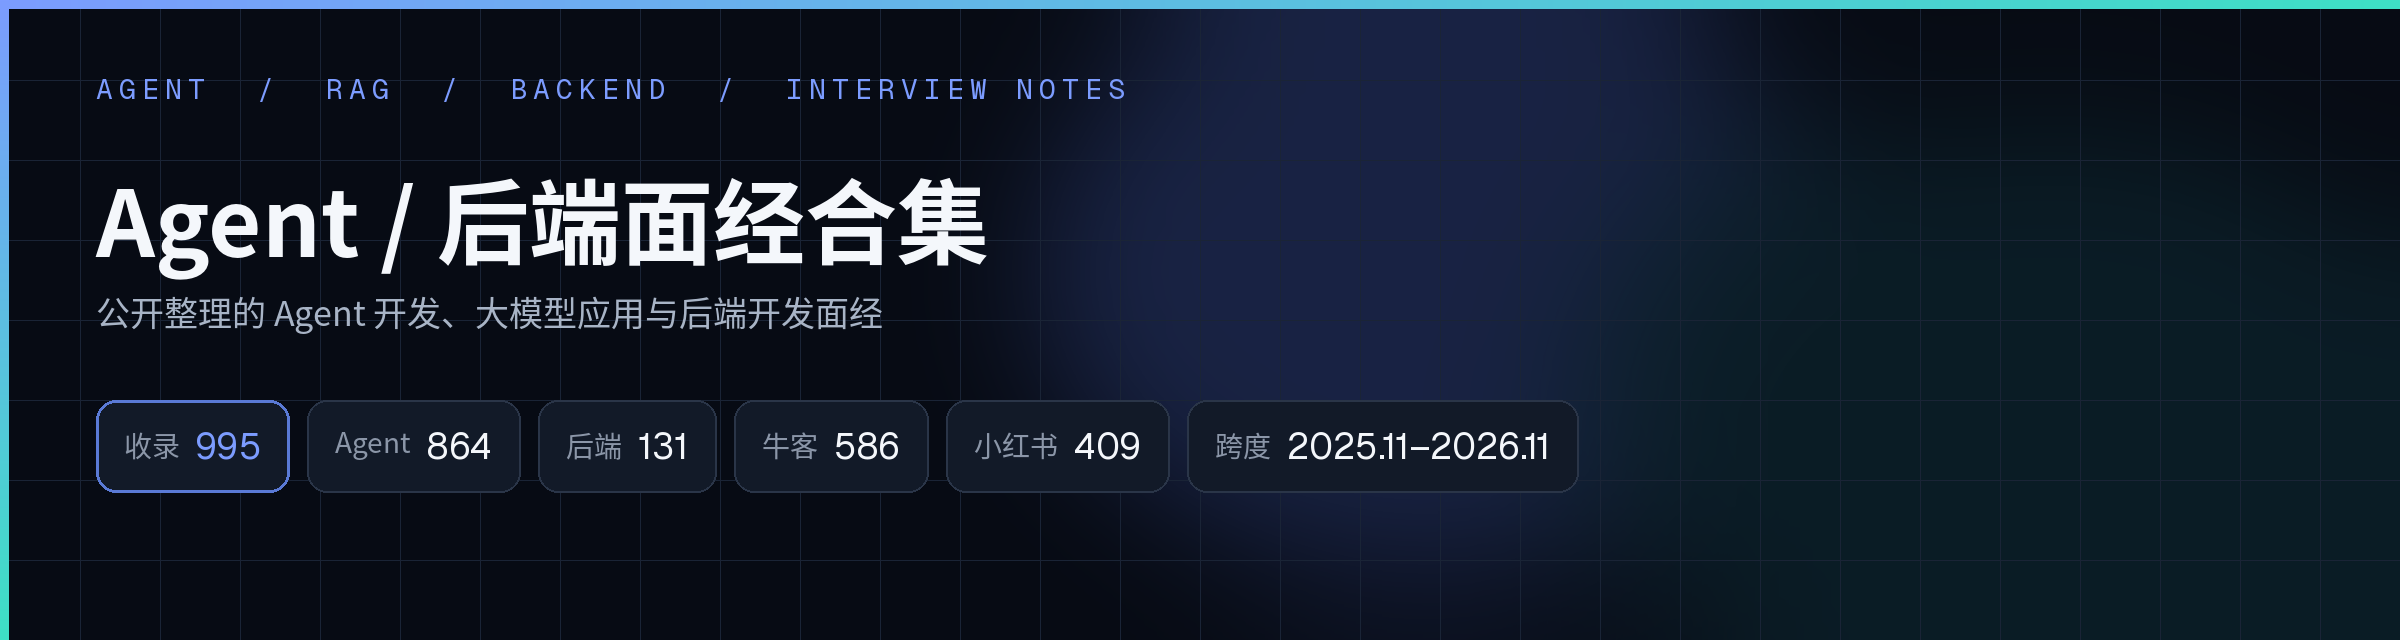
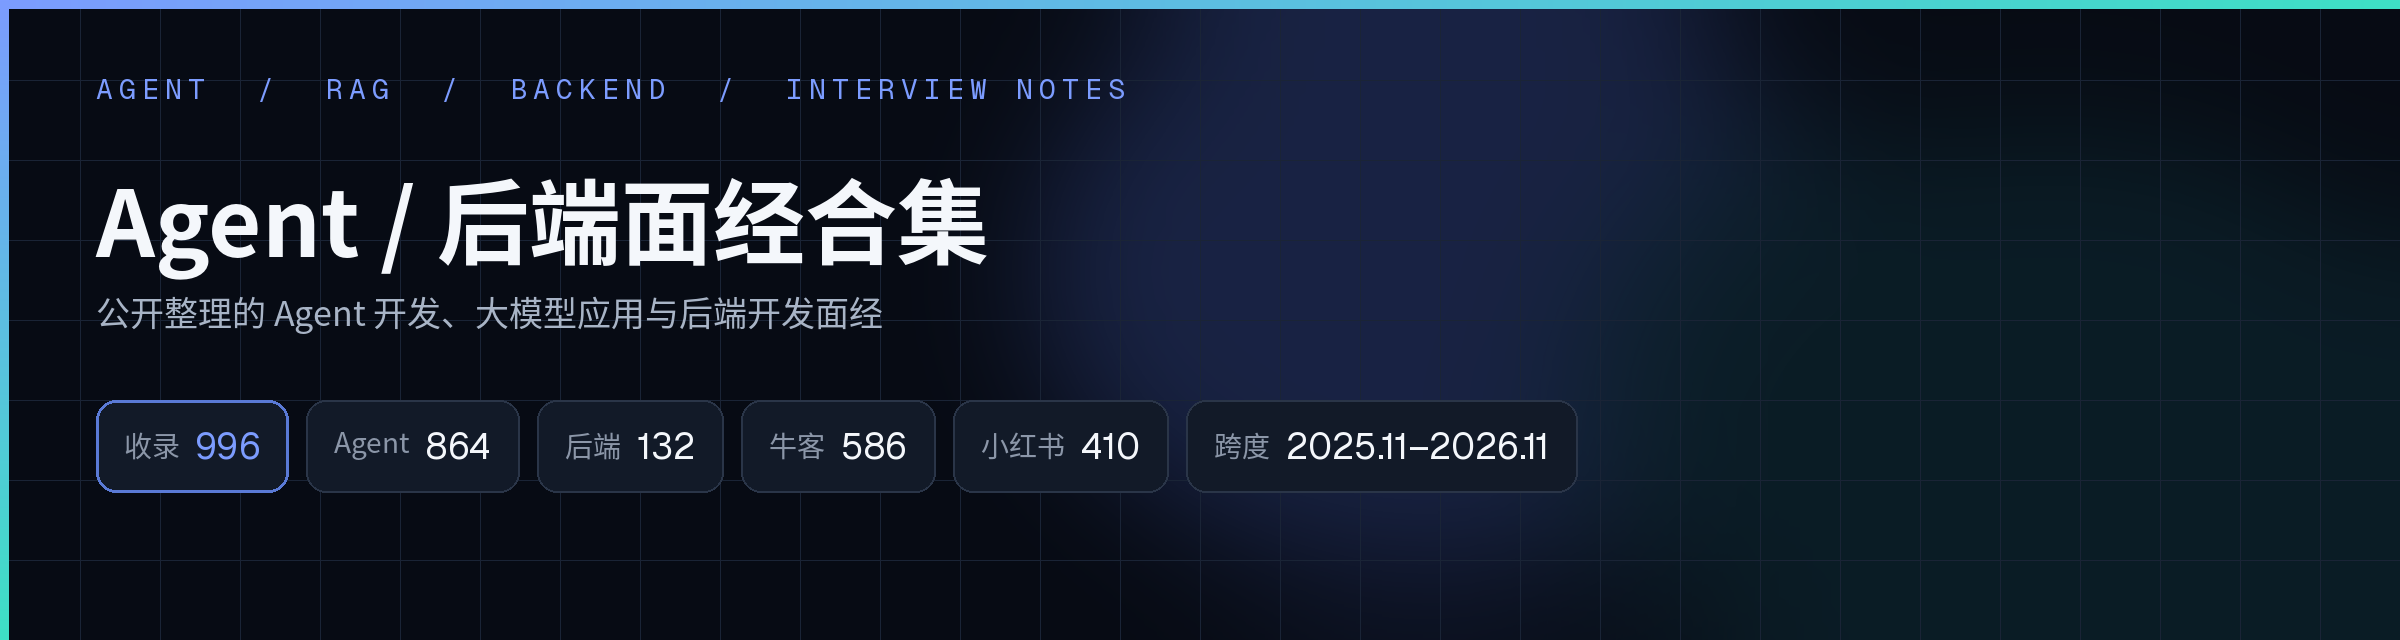
add 1 Xiaohongshu 面经 (小冶字节后端开发日常实习一面)

Changed region(s): [[0.125, 0.625, 0.6562, 0.75]]

diff --git a/backend/2026-10-24-字节跳动-后端开发-日常实习-一面.md b/backend/2026-10-24-字节跳动-后端开发-日常实习-一面.md
@@ -1,0 +1,69 @@
+# 字节跳动后端开发日常实习一面
+
+> 字节跳动 · 后端开发（按原帖标题记录；标题为后端开发日常实习。题目含 AI 服务端和 Agent Harness，不把岗位改成 Agent） · 日常实习（按标题记录） · 一面 · 结果未注明 · 详情页可见日期为 10-24（未标年份，无「编辑于」标记）；按小红书月日格式和报告的 2026 年时间语境记为 2026-10-24，落在收集窗口 2026-08-10 至 2026-11-12。标题写 10.9，报告也按 10.9 记这场一面，未标年份，不另推年份 · 作者 小冶 · 来源：[小红书](https://www.xiaohongshu.com/explore/6adb901e000000002b02b594)
+
+原帖标题为《10.9字节后端开发日常实习一面》。岗位按标题记为后端开发，招聘类型按标题记为日常实习。标题和报告均写面试 10.9，未标年份，不另推年份，也不把该日当成发帖日。招聘类型以外的结果在已读材料里未见，不猜测。同作者《10.13字节后端开发日常实习二面》6adb91a6 只显示「编辑于 10-24」，仍 held，不与本篇合并。仓库中其他作者的字节后端日常实习一面为不同原帖，也不合并。
+
+## 速览
+
+- **重点**：字节跳动后端开发日常实习一面。岗位按标题记为后端开发，招聘类型按标题记为日常实习。下面只整理搜集报告里已经可见的题意摘要，不是逐字原文，也不补答案。标题写 10.9，未标年份，不另推年份。已按编号列出 21 道题意，以及手撕 SQL 题和二叉树最大宽度，见正文。题目涉及 AI 服务端和 Agent Harness，不把岗位改成 Agent。本帖只见一面这一场，不拆文件，不与同作者仍 held 的二面或仓库中其他字节篇合并。
+- **难度**：字节跳动后端开发日常实习一面。发帖日期依据：详情页可见 10-24，未标年份，无「编辑于」标记，按小红书月日格式和报告 2026 语境记为 2026-10-24。标题写 10.9，未标年份，不另推年份。
+- **题量**：仅按报告可见摘要整理，不把未见细节补成题目，也不声称全题已核。
+
+## 面经正文
+
+以下只整理搜集报告中已经看到的题意，不是逐字原文，也不补答案。只写这一场一面，不拆、不与同作者 held 的二面或其他字节篇合并。报告称本篇非局部。
+
+### 一面
+
+报告未另写这场时长。标题写 10.9，报告也按 10.9 记这场一面；未标年份，不另推年份，也不把该日当成发帖日。下面按报告已编号的题意整理，不补答案。题目涉及 AI 服务端和 Agent Harness，不把岗位改成 Agent。
+
+项目一的创意来自学校还是团队，学校在商业化中提供了什么支持。报告未还原具体项目名，这里不补。
+
+项目中的角色与职责；创意是否由你提出；团队有多少人。
+
+记忆系统的读写链路解耦如何实现，读写是什么关系，是并发还是异步，以及原因。
+
+为何拆分 AI 服务端与业务服务端，各自职责是什么，拆分依据是什么，如何向客户端提供接口。
+
+AI 服务端的流式输出如何实现，以及 Agent Harness 的调用与管理机制。
+
+长期记忆是否自建向量存储和检索，是否保存所有对话，如何筛选并做相关性召回。
+
+数据库如何选型，选择 PostgreSQL 加 pgvector 有哪些考虑，是否对比过其他向量库。
+
+项目部署在何种基础设施上。
+
+是否有真实用户，内测规模如何，获取渠道是什么。
+
+内测阶段有哪些影响体验的问题，以及优化计划。
+
+大模型回复慢时，有哪些优化思路与措施。
+
+使用的是哪些大模型，是否支持切换，选型因素是什么。
+
+AI 生成代码占比如何，怎样定义 AI 辅助编程、它和 Vibe Coding 有何区别；需求、架构、接口、设计模式由谁负责。
+
+学习一个全新领域时，路径如何规划。
+
+为何选 PC 桌面端，潜在用户少怎么看，产品定位和差异化是什么。
+
+MySQL 一条查询的完整流程。
+
+慢查询。
+
+(a, b) 联合索引；WHERE 含 a、b、c 时能否命中。
+
+Redis 为何比 MySQL 快。
+
+分布式锁解决什么问题，用 Redis 如何实现。
+
+LEFT JOIN、RIGHT JOIN、INNER JOIN 的区别。
+
+手撕：SQL 题，以及二叉树最大宽度。报告未展开题面或解法，这里不补。
+
+以上只保留报告已列出的题意，不补实现细节或作答。已读材料未见最终录用或淘汰结论，结果未注明。标题所写 10.9 未标年份，不另推年份，也不把该日当成发帖日。
+
+---
+
+收录于 2026-11-25 · 本文为依据搜集报告可见摘要的整理，非正式原文转载。版权归原作者所有，如有侵权请提 Issue 删除。

diff --git a/README.md b/README.md
@@ -21,7 +21,7 @@
 
 | 收录 | Agent / 大模型应用 | 后端 | 来源 | 发帖跨度 |
 | --- | --- | --- | --- | --- |
-| 995 篇 | 864 | 131 | 牛客 586 · 小红书 409 | 2025.11–2026.11 |
+| 996 篇 | 864 | 132 | 牛客 586 · 小红书 410 | 2025.11–2026.11 |
 
 统计与 [`data/index.json`](data/index.json) 及 `agent/`、`backend/` 目录文件一致，随收录更新。本仓库整理已公开的帖子，不声称对每篇都做了独立真伪核验。
 
@@ -955,6 +955,7 @@
 | 2026-10-25 | 超星开发岗 一面+二面 | [文件](backend/2026-10-25-超星-开发岗-一面二面.md) | [原文](https://www.xiaohongshu.com/explore/6ade09e1000000002a01e708) |
 | 2026-10-24 | 值得记录的 AI 面试 | [文件](backend/2026-10-24-卓望数码-全栈开发工程师-秋招-AI面.md) | [原文](https://www.xiaohongshu.com/explore/6adcc184000000002c03ab8b) |
 | 2026-10-24 | 虾皮SZ 一面面经 | [文件](backend/2026-10-24-虾皮-一面.md) | [原文](https://www.xiaohongshu.com/explore/6adca9b5000000003300eb7c) |
+| 2026-10-24 | 10.9字节后端开发日常实习一面 | [文件](backend/2026-10-24-字节跳动-后端开发-日常实习-一面.md) | [原文](https://www.xiaohongshu.com/explore/6adb901e000000002b02b594) |
 | 2026-10-23 | 10.23小红书ai小工具leader面面经 | [文件](backend/2026-10-23-小红书-AI开放小工具后端开发-实习-二面.md) | [原文](https://www.xiaohongshu.com/explore/6adb59a4000000003101db54) |
 | 2026-10-22 | 百度-后端一面面经 | [文件](backend/2026-10-22-百度-后端-一面.md) | [原文](https://www.xiaohongshu.com/explore/6adac47300000000330219cb) |
 | 2026-10-22 | 腾讯-ieg-三面凉经 | [文件](backend/2026-10-22-腾讯IEG-后端-三面.md) | [原文](https://www.xiaohongshu.com/explore/6ad9ace2000000002c020166) |
